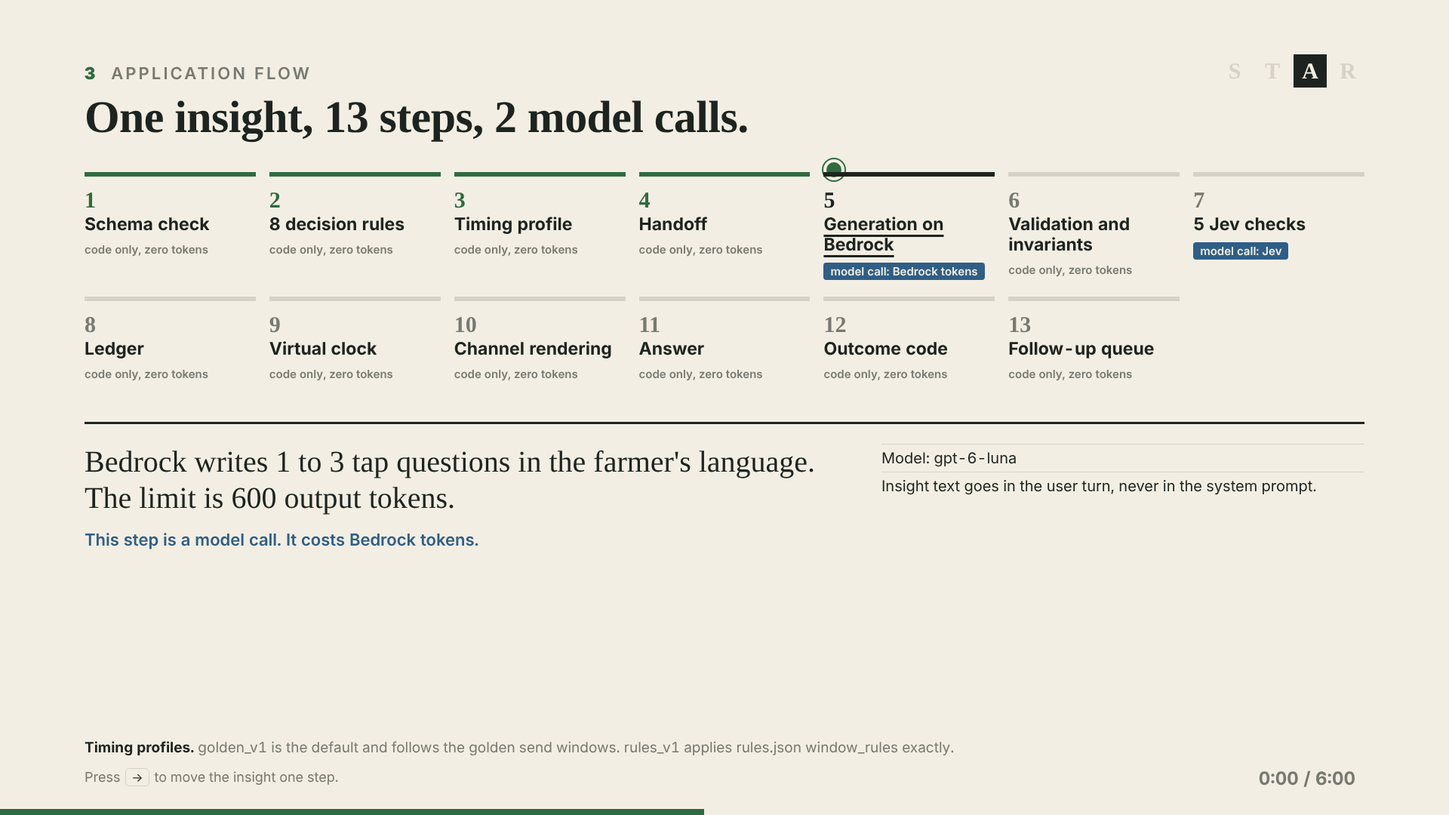
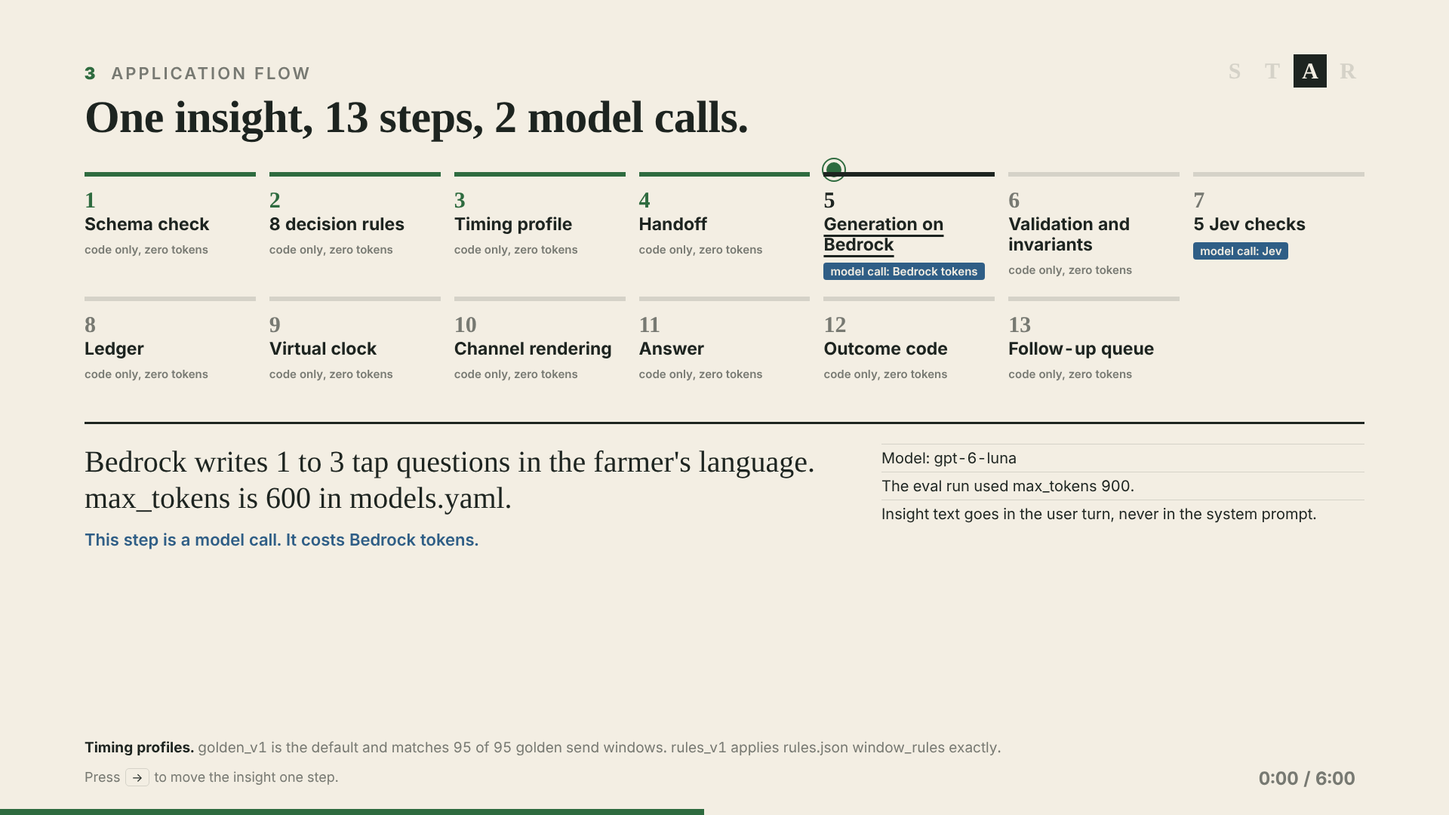
Refresh pitch deck with evidence, review, demo and infra facts (#26)
* Refresh pitch deck with evidence report, review, demo script and infra

Fill the slide 5 tiles from evidence/REPORT.md, the demo checklist from
DEMO.md, the simulator URL and CloudFront from infra/INFRA.md, and the
review count from REVIEW.md. Drop AWS Budgets, which was not deployed.

Claude-Session: https://claude.ai/code/session_01Cnzru5pCMBT4YPL5fzyRAG

* Deck: replace the prompt caching claim with the eval model line

Prompt caching was not measured, so slide 5 no longer claims it.

Claude-Session: https://claude.ai/code/session_01Cnzru5pCMBT4YPL5fzyRAG

---------

Changed region(s): [[0.5938, 0.5806, 0.9062, 0.6417], [0.0625, 0.5806, 0.3438, 0.6417], [0.2812, 0.8861, 0.6875, 0.9472]]

diff --git a/deck/index.html b/deck/index.html
@@ -225,7 +225,7 @@ table.why th{border-top:1.5px solid var(--faint)}
 </section>
 
 <!-- ============ SLIDE 2 ============ -->
-<section class="slide" data-n="2" data-steps="13" data-star="A">
+<section class="slide" data-n="2" data-steps="12" data-star="A">
   <div class="kicker"><b>2</b> &nbsp;Solution architecture</div>
   <h1 style="font-size:60px">One request path. One data path.</h1>
   <div class="s2-grid">
@@ -233,7 +233,7 @@ table.why th{border-top:1.5px solid var(--faint)}
       <ul class="legend">
         <li><svg width="70" height="14"><line x1="0" y1="7" x2="70" y2="7" stroke="#2E6B3F" stroke-width="4"/></svg>Request path</li>
         <li><svg width="70" height="14"><line x1="0" y1="7" x2="70" y2="7" stroke="#2F5E86" stroke-width="4" stroke-dasharray="10 6"/></svg>Data path</li>
-        <li><svg width="70" height="24"><rect x="2" y="2" width="66" height="20" fill="none" stroke="#C7860A" stroke-width="2.5" stroke-dasharray="8 6"/></svg>Not confirmed yet</li>
+        <li><svg width="70" height="24"><rect x="2" y="2" width="66" height="20" fill="none" stroke="#1D2420" stroke-width="2" stroke-dasharray="4 5"/></svg>Outside the AWS application</li>
       </ul>
       <div class="svcpanel" id="svcpanel"></div>
     </div>
@@ -250,7 +250,7 @@ table.why th{border-top:1.5px solid var(--faint)}
       <!-- compute group -->
       <rect x="470" y="196" width="280" height="264" fill="none" stroke="#1D2420" stroke-width="1.5" stroke-dasharray="2 5"/>
       <text x="482" y="218" style="font-size:15px;font-weight:700;letter-spacing:.1em;fill:#6e6f68">APPLICATION CODE: mel</text>
-      <text x="206" y="636" style="font-size:15px;font-weight:700;letter-spacing:.1em;fill:#6e6f68">OBSERVE AND CONTROL COST</text>
+      <text x="206" y="636" style="font-size:15px;font-weight:700;letter-spacing:.1em;fill:#6e6f68">OBSERVE</text>
 
       <!-- request path arrows -->
       <path data-s="0 1" class="req" d="M85 240V102H218" marker-end="url(#mreq)"/>
@@ -258,8 +258,8 @@ table.why th{border-top:1.5px solid var(--faint)}
       <path data-s="2 3" class="req" d="M420 278H488" marker-end="url(#mreq)"/>
       <path data-s="3 4 5" class="req" d="M590 196V142" marker-end="url(#mreq)"/>
       <path data-s="3 4 7" class="req" d="M750 420H766V560H1038" marker-end="url(#mreq)"/>
-      <path data-s="0 11" class="req pend" d="M85 316V558H218" marker-end="url(#mpen)"/>
-      <path data-s="11 10" class="req pend" d="M420 558H478" marker-end="url(#mpen)"/>
+      <path data-s="0 11" class="req" d="M85 316V558H218" marker-end="url(#mreq)"/>
+      <path data-s="11 10" class="req" d="M420 558H478" marker-end="url(#mreq)"/>
       <!-- data path arrows -->
       <path data-s="3 4 8" class="dat" d="M750 274H788" marker-end="url(#mdat)"/>
       <path data-s="3 4 9" class="dat" d="M750 394H788" marker-end="url(#mdat)"/>
@@ -279,9 +279,8 @@ table.why th{border-top:1.5px solid var(--faint)}
       <g class="svc" data-i="8"><rect class="box" x="790" y="236" width="210" height="76" rx="6"/><text class="nm" x="804" y="268">DynamoDB</text><text class="sb" x="804" y="294">table mel-ledger</text></g>
       <g class="svc" data-i="9"><rect class="box" x="790" y="356" width="210" height="76" rx="6"/><text class="nm" x="804" y="388">SQS</text><text class="sb" x="804" y="414">follow-up queue</text><rect class="box" x="815" y="452" width="150" height="48" rx="6"/><text class="sb" x="830" y="482" style="fill:#1D2420;font-weight:600">DLQ</text></g>
       <g class="svc" data-i="10"><rect class="box" x="480" y="520" width="220" height="76" rx="6"/><text class="nm" x="494" y="552">S3</text><text class="sb" x="494" y="578">simulator, artifacts</text></g>
-      <g class="svc pending" data-i="11"><rect class="box" x="220" y="520" width="200" height="76" rx="6"/><text class="nm" x="234" y="552">CloudFront</text><text class="sb" x="234" y="578" style="fill:#8a5d06;font-weight:700">PENDING</text></g>
-      <g class="svc" data-i="12"><rect class="box" x="480" y="650" width="220" height="76" rx="6"/><text class="nm" x="494" y="682">CloudWatch</text><text class="sb" x="494" y="708">dashboard, alarms</text></g>
-      <g class="svc" data-i="13"><rect class="box" x="790" y="650" width="210" height="76" rx="6"/><text class="nm" x="804" y="682">AWS Budgets</text><text class="sb" x="804" y="708">monthly budget</text></g>
+      <g class="svc" data-i="11"><rect class="box" x="220" y="520" width="200" height="76" rx="6"/><text class="nm" x="234" y="552">CloudFront</text><text class="sb" x="234" y="578">simulator, HTTPS</text></g>
+      <g class="svc" data-i="12"><rect class="box" x="480" y="650" width="220" height="76" rx="6"/><text class="nm" x="494" y="682">CloudWatch</text><text class="sb" x="494" y="708">dashboard, 2 alarms</text></g>
     </svg>
   </div>
   <div class="hint">Press <kbd>→</kbd> to show each service in turn.</div>
@@ -293,7 +292,7 @@ table.why th{border-top:1.5px solid var(--faint)}
   <h1 style="font-size:60px">One insight, 13 steps, 2 model calls.</h1>
   <div class="track" id="track"><div id="token"></div></div>
   <div class="detail" id="detail"></div>
-  <div class="foot"><b>Timing profiles.</b> golden_v1 is the default and follows the golden send windows. rules_v1 applies rules.json window_rules exactly.</div>
+  <div class="foot"><b>Timing profiles.</b> golden_v1 is the default and matches 95 of 95 golden send windows. rules_v1 applies rules.json window_rules exactly.</div>
   <div class="hint">Press <kbd>→</kbd> to move the insight one step.</div>
 </section>
 
@@ -320,27 +319,27 @@ table.why th{border-top:1.5px solid var(--faint)}
     <div class="tile">
       <div class="v">150<small> / 150</small></div>
       <div class="l">Golden-set decisions that match, with 0 model calls</div>
-      <div class="s">Wave 0 rule check in CONTRACTS.md. <span class="chip">pending <i>evidence/REPORT.md</i></span></div>
+      <div class="s">Rule id, reason code and survey flag all match. Source: evidence/REPORT.md.</div>
     </div>
     <div class="tile">
-      <div class="v"><span class="chip" style="font-size:30px">pending</span><small> / 183</small></div>
+      <div class="v">183<small> / 183</small></div>
       <div class="l">Outcome fixtures that pass</div>
-      <div class="s">The total of 183 comes from pack/README.txt. <span class="chip">pending <i>evidence/REPORT.md</i></span></div>
+      <div class="s">Each pack fixture passes through the outcome state machine. Source: evidence/REPORT.md.</div>
     </div>
     <div class="tile">
-      <div class="v">$0.000210</div>
+      <div class="v">$0.000818</div>
       <div class="l">Cost for each accepted survey, <span style="white-space:nowrap">gpt-6-luna</span></div>
-      <div class="s">Generation only, in the model eval. The list price is not verified. <span class="chip">pending <i>evidence/REPORT.md</i></span></div>
+      <div class="s">Failed calls are counted. Without them, the cost is $0.000568. 5 of 5 surveys passed. Prices are not verified.</div>
     </div>
     <div class="tile">
-      <div class="v"><span class="chip" style="font-size:30px">pending</span></div>
-      <div class="l">Latency p50 and p95, end to end</div>
-      <div class="s">The model call alone has a p50 of 1146 ms in the eval. <span class="chip">pending <i>evidence/REPORT.md</i></span></div>
+      <div class="v">2,577<small> / 4,105 ms</small></div>
+      <div class="l">Latency p50 and p95 for each model call</div>
+      <div class="s">Measured on Bedrock in us-west-2 over 7 model calls. Source: evidence/REPORT.md.</div>
     </div>
   </div>
   <table class="why">
-    <tr><th>Cost</th><td>Decisions, timing and outcomes are deterministic code. The eval chose <span style="white-space:nowrap">gpt-6-luna</span>: 15 of 15 passed at the lowest priced cost. Prompt caching <span class="chip">pending <i>not in listed files</i></span></td></tr>
-    <tr><th>Security</th><td>Farmer identity comes from the JWT only. Each component has its own least-privilege IAM role. The Jev key stays in Secrets Manager. A Jev failure holds the survey for review. Adversarial review <span class="chip">pending <i>REVIEW.md pass count</i></span></td></tr>
+    <tr><th>Cost</th><td>Decisions, timing and outcomes are deterministic code. Cheapest Bedrock model chosen by eval: <span style="white-space:nowrap">gpt-6-luna</span>, 5 of 5 accepted.</td></tr>
+    <tr><th>Security</th><td>Farmer identity comes from the JWT only. IAM policies list explicit actions, with no wildcard actions. The Jev key stays in Secrets Manager. A Jev failure holds the survey for review. The adversarial review checked 15 items, and 12 are closed with PR #23.</td></tr>
     <tr><th>Simplicity</th><td>One Python package, mel. One DynamoDB table. One static simulator page. One deploy script.</td></tr>
   </table>
   <p class="close">Every piece of advice gets a <b>measured outcome</b>. Farmers with bad outcomes <b>get help</b>.</p>
@@ -373,9 +372,9 @@ function chip(src){return '<span class="chip">pending <i>'+esc(src)+'</i></span>
 
 /* ---------- slide 2 data ---------- */
 var SVC=[
- [0,"Overview","The diagram shows the services in infra/README.md. infra/INFRA.md is not on main yet."],
+ [0,"Overview","The diagram shows the deployed services in infra/INFRA.md and the external Jev service."],
  [1,"Cognito","Cognito signs in the farmer and issues a JWT that carries farmer_id and org_id."],
- [2,"API Gateway","API Gateway checks the JWT, validates each request and throttles at rate 1, burst 10."],
+ [2,"API Gateway","The HTTP API checks the JWT and throttles at rate 1, burst 10. The Lambda validates the payload."],
  [3,"Lambda","The Lambda function mel-api runs the agent code for each API request."],
  [4,"AgentCore Runtime","AgentCore Runtime runs the agent as a container from the ECR repository mel-agent."],
  [5,"Bedrock","Bedrock runs gpt-6-luna through a global cross-region inference profile, called from us-west-2."],
@@ -384,9 +383,8 @@ var SVC=[
  [8,"DynamoDB","DynamoDB holds the ledger in one table, scoped by org_id and farmer_id."],
  [9,"SQS with DLQ","SQS holds the follow-up queue. The dead-letter queue keeps messages that fail."],
  [10,"S3","S3 holds the simulator page and the artifacts, with public access blocked."],
- [11,"CloudFront","CloudFront for the simulator is not confirmed. "+chip("infra/INFRA.md")],
- [12,"CloudWatch","CloudWatch shows the MelAgent metrics on a dashboard and raises alarms."],
- [13,"AWS Budgets","AWS Budgets sets a monthly cost budget."]
+ [11,"CloudFront","CloudFront serves the simulator page over HTTPS from the private S3 bucket."],
+ [12,"CloudWatch","CloudWatch shows the MelAgent metrics on the mel-agent dashboard. 2 alarms watch the DLQ and the model call rate."]
 ];
 var arch=document.getElementById("arch");
 function renderS2(step){
@@ -397,7 +395,7 @@ function renderS2(step){
   arch.classList.toggle("focus",step>0);
   var d=SVC[step];
   document.getElementById("svcpanel").innerHTML=
-    '<div class="n">'+(step?("Service "+step+" of 13"):"13 services")+'</div><h2>'+d[1]+'</h2><p>'+d[2]+'</p>';
+    '<div class="n">'+(step?("Service "+step+" of 12"):"12 services")+'</div><h2>'+d[1]+'</h2><p>'+d[2]+'</p>';
 }
 
 /* ---------- slide 3 data ---------- */
@@ -407,7 +405,7 @@ var STEPS=[
    ["R1|junk_insight","R2|critical_needs_human_call","R3|nothing_to_verify","R4|waiting_for_details","R5|no_check_needed","R6|window_after_season","R7|crop_already_harvested","R8|survey"]],
  ["Timing profile",0,"The timing profile sets the send window from the verification timing.",["|golden_v1 is the default profile.","|rules_v1 applies rules.json window_rules."]],
  ["Handoff",0,"The handoff builds the schedule record for the scheduler.",["|Channel order and wait hours","|Frequency cap","|Priority","|Expiry time"]],
- ["Generation on Bedrock",1,"Bedrock writes 1 to 3 tap questions in the farmer's language. The limit is 600 output tokens.",["|Model: gpt-6-luna","|Insight text goes in the user turn, never in the system prompt."]],
+ ["Generation on Bedrock",1,"Bedrock writes 1 to 3 tap questions in the farmer's language. max_tokens is 600 in models.yaml.",["|Model: gpt-6-luna","|The eval run used max_tokens 900.","|Insight text goes in the user turn, never in the system prompt."]],
  ["Validation and invariants",0,"Code validates the survey against the pack schema and the invariants. Our validator sets schema_valid.",["|1 to 3 items","|Unique item_id","|2 to 10 options","|Labels of 20 code points or fewer","|Scales of 10 steps or fewer"]],
  ["5 Jev checks",2,"Jev answers 5 typed questions about the final survey. A Jev failure holds the survey for review.",["|matches_advice","|gives_new_advice","|asks_personal_info","|inappropriate_content","|language_matches_tag"]],
  ["Ledger",0,"The ledger stores the survey. Every read and write is scoped by org_id and farmer_id.",null],
@@ -455,11 +453,11 @@ function renderS3(step){
 }
 
 /* ---------- slide 4 data ---------- */
-var CHECKS=[1,2,3,4,5,6];
+var CHECKS=[[1,"The outcome"],[2,"Potato insight to survey"],[3,"Clock, sheet and follow-up"],[4,"Zero tillage insight: no survey"],[5,"Failures: push, partial, duplicate, opt-out"],[6,"Evidence"]];
 var checksEl=document.getElementById("checks"), ticked={};
-CHECKS.forEach(function(n){
-  var li=document.createElement("li");li.setAttribute("data-k",n);
-  li.innerHTML='<span class="bx"></span><span class="lbl">Step '+n+' '+chip("DEMO.md")+'</span>';
+CHECKS.forEach(function(c){
+  var n=c[0],li=document.createElement("li");li.setAttribute("data-k",n);
+  li.innerHTML='<span class="bx"></span><span class="lbl"><b>'+n+'</b>&nbsp; '+esc(c[1])+'</span>';
   li.addEventListener("click",function(e){e.stopPropagation();toggleCheck(n);});
   checksEl.appendChild(li);
 });
@@ -470,17 +468,18 @@ var O="pack/json/outcomes/app/survey-single-select/";
 function rec(rows){return '<div class="rec">'+rows.map(function(r){
   return '<div'+(r[2]?' class="'+r[2]+'"':'')+'><span>'+esc(r[0])+'</span><span>'+esc(r[1])+'</span></div>';}).join("")+'</div>';}
 var FRAMES=[
- {t:"Potato survey in Hindi",src:P+"survey.hi-IN.json and survey.en-IN.json",one:true,html:
+ {t:"Potato survey in English",src:P+"survey.en-IN.json and survey.hi-IN.json",one:true,html:
   '<div class="sq">'+
-  '<div class="item"><div class="hi">क्या आपने पिछले 3 दिनों में आलू के पत्ते देखे?</div><div class="en">Did you check the potato leaves in the last 3 days?</div><div class="opts"><span>हाँ</span><span>नहीं</span></div></div>'+
-  '<div class="item"><div class="hi">भूरे धब्बों का अब क्या हाल है?</div><div class="en">What is happening to the brown spots?</div><div class="opts"><span>नए धब्बे नहीं</span><span>पहले जैसे ही</span><span>फैल रहे हैं</span><span>सफ़ेद फफूंद दिखी</span></div></div>'+
-  '<div class="item"><div class="hi">सलाह कितनी काम की रही? 1 मतलब बिल्कुल नहीं, 5 मतलब बहुत काम की।</div><div class="en">How useful was the advice? 1 means not useful, 5 means very useful.</div><div class="opts"><span>1</span><span>2</span><span>3</span><span>4</span><span>5</span></div></div>'+
+  '<div class="item"><div class="hi">Did you check the potato leaves in the last 3 days?</div><div class="en">क्या आपने पिछले 3 दिनों में आलू के पत्ते देखे?</div><div class="opts"><span>Yes</span><span>No</span></div></div>'+
+  '<div class="item"><div class="hi">What is happening to the brown spots?</div><div class="en">भूरे धब्बों का अब क्या हाल है?</div><div class="opts"><span>No new spots</span><span>Same as before</span><span>Spreading</span><span>White growth seen</span></div></div>'+
+  '<div class="item"><div class="hi">How useful was the advice? 1 means not useful, 5 means very useful.</div><div class="en">सलाह कितनी काम की रही? 1 मतलब बिल्कुल नहीं, 5 मतलब बहुत काम की।</div><div class="opts"><span>1</span><span>2</span><span>3</span><span>4</span><span>5</span></div></div>'+
+  '<p class="src" style="margin-top:10px">The agent builds en-IN only. Hindi is not built yet. The grey lines show the pack hi-IN text.</p>'+
   '</div>'},
- {t:"App bottom sheet, step 2 of 3",src:P+"render/hi-IN/app.json",html:
+ {t:"App bottom sheet, step 2 of 3",src:P+"render/en-IN/app.json",html:
   '<div class="phone"><div class="chat">FarmerChat</div><div class="sheet"><div class="grab"></div>'+
-  '<div class="t">आपको मिली सलाह पर एक छोटा सवाल · 3 में से 2</div><div class="q">भूरे धब्बों का अब क्या हाल है?</div>'+
-  '<span class="opt">नए धब्बे नहीं</span><span class="opt">पहले जैसे ही</span><span class="opt tap">फैल रहे हैं</span><span class="opt">सफ़ेद फफूंद दिखी</span>'+
-  '<div class="row"><span>छोड़ें</span><span>बंद करें</span></div></div></div>'+
+  '<div class="t">A quick question about the advice you got · 2 of 3</div><div class="q">What is happening to the brown spots?</div>'+
+  '<span class="opt">No new spots</span><span class="opt">Same as before</span><span class="opt tap">Spreading</span><span class="opt">White growth seen</span>'+
+  '<div class="row"><span>Skip</span><span>Close</span></div></div></div>'+
   rec([["presentation","bottom_sheet"],["opens_when","push_tapped, next_app_open"],["waits_for","answer finished, no typing for 5 seconds, no call"],["one_question_per_step","true"],["can_skip, can_close","true, true"]])},
  {t:"Answer: spreading",src:P+"responses/whatsapp.json",one:true,html:
   rec([["survey_id","S-21310"],["channel","whatsapp"],["answers","q1 yes · q2 spreading · q3 2"],["status","negative_outcome","bad"],["counts_toward_cap","true"],["needs_follow_up","true","hot"],["follow_up_reasons","crop_or_animal_damaged","hot"]])},
@@ -506,12 +505,12 @@ function renderS4(step){
   frame.classList.toggle("live",state.live);
   if(state.live){
     frame.innerHTML='<div class="fhead"><span class="mode liveon">LIVE</span><span class="ttl">Simulator</span><span class="cnt">Press L for the replay</span></div>'+
-      '<div class="livebox"><div>Simulator URL</div>'+chip("infra/INFRA.md")+'<div style="font-size:20px">Open the simulator in a browser tab next to this deck.</div></div>';
+      '<div class="livebox"><div>Simulator URL</div><div style="font-size:34px;font-weight:700;color:var(--ink)">https://d3eb8n1ufruyva.cloudfront.net</div><div style="font-size:20px">Open the simulator in a browser tab next to this deck.</div><div style="font-size:20px">For the simulator replay, add ?replay=1 to the URL.</div></div>';
     return;
   }
   var f=FRAMES[step];
   frame.innerHTML='<div class="fhead"><span class="mode replay">REPLAY</span><span class="ttl">'+esc(f.t)+'</span><span class="cnt">Frame '+(step+1)+' of '+FRAMES.length+'</span></div>'+
-    '<div class="fbody'+(f.one?" one":"")+'">'+f.html+'</div><div class="fsrc">Recorded pack record: '+esc(f.src)+'</div>';
+    '<div class="fbody'+(f.one?" one":"")+'">'+f.html+'</div><div class="fsrc">Recorded pack record, the same data as the simulator replay: '+esc(f.src)+'</div>';
 }
 
 /* ---------- notes ---------- */
@@ -531,14 +530,15 @@ var NOTES=[
   "Green arrows show the request path. Blue arrows show the data path.",
   "Cognito signs in the farmer and issues a JWT.",
   "API Gateway checks the JWT and sends the request to the Lambda function.",
+  "The Lambda function validates the payload, because an HTTP API has no request validator.",
   "AgentCore Runtime runs the same agent code as a container.",
   "Bedrock runs gpt-6-luna through a cross-region inference profile.",
   "The Jev key stays in Secrets Manager. Jev is outside AWS.",
   "DynamoDB holds the ledger in one table.",
   "SQS holds the follow-up queue. A dead-letter queue keeps failed messages.",
   "S3 holds the simulator page and the artifacts.",
-  "CloudFront is pending. Do not talk about it until infra/INFRA.md confirms it.",
-  "CloudWatch shows the dashboard and alarms. AWS Budgets sets a monthly budget."]],
+  "CloudFront serves the simulator page from the private S3 bucket.",
+  "CloudWatch shows the dashboard. 2 alarms watch the DLQ and the model call rate."]],
  ["Slide 3. Action: application flow. Target 2:00 to 3:10. Press the right arrow for each step.",[
   "Follow one insight through the agent.",
   "Code checks the insight against the pack schema.",
@@ -554,8 +554,9 @@ var NOTES=[
  ["Slide 4. Action shown live. Target 3:10 to 5:10.",[
   "If the live system fails, press L to show the replay.",
   "Follow the 6 steps in DEMO.md. Tick each step on the slide when you finish it.",
+  "The live simulator is at d3eb8n1ufruyva.cloudfront.net.",
   "The replay uses recorded pack records.",
-  "First, the potato survey in Hindi. The farmer gets 3 questions.",
+  "First, the potato survey in English. Hindi is not built yet. The farmer gets 3 questions.",
   "Next, the bottom sheet in the app. It shows one question for each step.",
   "The farmer taps Spreading. The status becomes negative_outcome.",
   "The agent creates a follow-up item with the reason crop_or_animal_damaged.",
@@ -567,9 +568,11 @@ var NOTES=[
  ["Slide 5. Result. Target 5:10 to 6:00.",[
   "Do not read a pending chip as a number. Say that the number is pending.",
   "The rules match 150 of 150 golden decisions with 0 model calls.",
-  "Generation costs $0.000210 for each accepted survey in the eval. The list price is not verified.",
+  "183 of 183 outcome fixtures pass.",
+  "Each accepted survey costs $0.000818, with failed calls counted. The prices are not verified.",
+  "Each model call takes 2,577 ms at p50 and 4,105 ms at p95.",
   "Cost stays low because decisions are code. The eval chose the model.",
-  "Security comes from JWT identity, least-privilege IAM, secrets off clients and the Jev hold.",
+  "Security comes from JWT identity, explicit IAM actions, secrets off clients and the Jev hold.",
   "Simplicity comes from one package, one table, one static page and one deploy script.",
   "Every piece of advice gets a measured outcome. Farmers with bad outcomes get help."]]
 ];

diff --git a/deck/NOTES.md b/deck/NOTES.md
@@ -36,14 +36,15 @@ Press the right arrow for each service.
 - Green arrows show the request path. Blue arrows show the data path.
 - Cognito signs in the farmer and issues a JWT.
 - API Gateway checks the JWT and sends the request to the Lambda function.
+- The Lambda function validates the payload, because an HTTP API has no request validator.
 - AgentCore Runtime runs the same agent code as a container.
 - Bedrock runs gpt-6-luna through a cross-region inference profile.
 - The Jev key stays in Secrets Manager. Jev is outside AWS.
 - DynamoDB holds the ledger in one table.
 - SQS holds the follow-up queue. A dead-letter queue keeps failed messages.
 - S3 holds the simulator page and the artifacts.
-- CloudFront is pending. Do not talk about it until infra/INFRA.md confirms it.
-- CloudWatch shows the dashboard and alarms. AWS Budgets sets a monthly budget.
+- CloudFront serves the simulator page from the private S3 bucket.
+- CloudWatch shows the dashboard. 2 alarms watch the DLQ and the model call rate.
 
 ### Slide 3. Action: application flow. 2:00 to 3:10
 
@@ -65,8 +66,9 @@ Press the right arrow for each step.
 
 - If the live system fails, press L to show the replay.
 - Follow the 6 steps in DEMO.md. Tick each step on the slide when you finish it.
+- The live simulator is at d3eb8n1ufruyva.cloudfront.net.
 - The replay uses recorded pack records.
-- First, the potato survey in Hindi. The farmer gets 3 questions.
+- First, the potato survey in English. Hindi is not built yet. The farmer gets 3 questions.
 - Next, the bottom sheet in the app. It shows one question for each step.
 - The farmer taps Spreading. The status becomes negative_outcome.
 - The agent creates a follow-up item with the reason crop_or_animal_damaged.
@@ -80,13 +82,18 @@ Press the right arrow for each step.
 
 - Do not read a pending chip as a number. Say that the number is pending.
 - The rules match 150 of 150 golden decisions with 0 model calls.
-- Generation costs $0.000210 for each accepted survey in the eval. The list price is not verified.
+- 183 of 183 outcome fixtures pass.
+- Each accepted survey costs $0.000818, with failed calls counted. The prices are not verified.
+- Each model call takes 2,577 ms at p50 and 4,105 ms at p95.
 - Cost stays low because decisions are code. The eval chose the model.
-- Security comes from JWT identity, least-privilege IAM, secrets off clients and the Jev hold.
+- Security comes from JWT identity, explicit IAM actions, secrets off clients and the Jev hold.
 - Simplicity comes from one package, one table, one static page and one deploy script.
 - Every piece of advice gets a measured outcome. Farmers with bad outcomes get help.
 
+
 ## Every number and its source
+
+Sources read on 2026-11-05: main at 5e0b278, evidence/REPORT.md from PR #25, REVIEW.md from PR #21, DEMO.md from PR #20, KNOWN-ISSUES.md from PR #24, infra/INFRA.md on main.
 
 | Slide | Number | Meaning | Source file |
 |---|---|---|---|
@@ -95,57 +102,52 @@ Press the right arrow for each step.
 | 1 | 150 | golden cases | pack/README.txt |
 | 1 | 183 | outcome records | pack/README.txt |
 | 1, 3 | 1 to 3 | tap questions in a survey | pack/README.txt; models/results/model_select.md |
-| 2 | 13 | services drawn | infra/README.md (6 stacks), CLAUDE.md (Bedrock, Jev) |
-| 2 | rate 1, burst 10 | API Gateway stage throttle | CLAUDE.md |
-| 2, 3, 5 | 5 | Jev checks | mel/settings.py (JEV_THRESHOLD_* x5); CONTRACTS.md (`JEV_THRESHOLD_<CHECK>` x5) |
+| 2 | 12 | services drawn (11 AWS, plus Jev) | infra/INFRA.md resource inventory; CLAUDE.md (Jev) |
+| 2 | rate 1, burst 10 | API Gateway stage throttle | CLAUDE.md; evidence/REPORT.md section 7 |
+| 2 | 2 | CloudWatch alarms | evidence/REPORT.md section 6 (mel-followup-dlq-nonempty, mel-model-calls-over-60) |
+| 2, 3, 5 | 5 | Jev checks | mel/settings.py (JEV_THRESHOLD_* x5); CONTRACTS.md |
 | 3 | 13 | flow steps | the task brief for this deck |
 | 3 | 8, R1 to R8 | decision rules and reason codes | CONTRACTS.md, Rules table |
 | 3 | 2 | model calls (generation, Jev) | CLAUDE.md, Fixed decisions |
 | 3 | 11 | code-only steps (13 minus 2) | derived from the two rows above |
-| 3 | 600 | max output tokens | CLAUDE.md; models/models.yaml `max_tokens` |
+| 3 | 600 | max_tokens in config | models/models.yaml |
+| 3 | 900 | max_tokens used in the eval run | evidence/REPORT.md section 4 |
+| 3 | 95 of 95 | golden send windows that golden_v1 matches | evidence/REPORT.md section 2 |
 | 3 | 1 to 3, 2 to 10, 20, 10 | survey invariants | models/results/model_select.md |
 | 3 | I-005330, 3 days | example insight | pack/json/scenarios/3-potato-blight-wait/insight.json |
-| 4 | 6 | demo steps | the task brief (DEMO.md is missing) |
+| 4 | 6 | demo steps and their names | DEMO.md (PR #20) |
+| 4 | d3eb8n1ufruyva.cloudfront.net | simulator URL | infra/INFRA.md, Endpoints |
 | 4 | 9 | replay frames | this deck |
 | 4 | S-21310, F-000245, q3 = 2 | potato survey and answer | pack/json/scenarios/3-potato-blight-wait/responses/whatsapp.json |
-| 4 | 3 in 3 steps, 5 seconds | bottom sheet steps and typing wait | pack/json/scenarios/3-potato-blight-wait/render/hi-IN/app.json |
+| 4 | 2 of 3, 5 seconds | bottom sheet step and typing wait | pack/json/scenarios/3-potato-blight-wait/render/en-IN/app.json |
 | 4 | I-004101, R3 | no-survey insight and rule | pack/json/scenarios/6-zero-tillage-info-no-survey/; proposals/CONFLICTS.md section 2 |
 | 4 | S-20931, HTTP 200 | failure records | pack/json/outcomes/app/survey-single-select/*.json |
-| 5 | 150 / 150 | golden decisions that match (wave 0 rule check) | CONTRACTS.md, Rules heading |
-| 5 | 183 | outcome fixture total | pack/README.txt |
-| 5 | $0.000210 | cost per accepted survey, generation only, eval | models/results/model_select.md; models/models.yaml |
-| 5 | 15 of 15 | eval pass count for gpt-6-luna | models/results/model_select.md |
-| 5 | 1146 ms | model call p50 in the eval | models/results/model_select.md |
+| 5 | 150 / 150 | golden decisions that match | evidence/REPORT.md section 1 |
+| 5 | 183 / 183 | outcome fixtures that pass | evidence/REPORT.md section 3 |
+| 5 | $0.000818 | cost per accepted survey, failed calls counted | evidence/REPORT.md section 4 |
+| 5 | $0.000568 | cost per accepted survey, successful calls only | evidence/REPORT.md section 4 |
+| 5 | 5 of 5 | surveys accepted (schema valid and Jev ok) | evidence/REPORT.md section 4 |
+| 5 | 2,577 ms, 4,105 ms | latency p50 and p95 per model call | evidence/REPORT.md section 4 |
+| 5 | 7 | model calls in the eval run | evidence/REPORT.md section 4 |
+| 5 | 15, 12 | review items, and items closed with PR #23 | REVIEW.md (PR #21) |
 | footer | 6:00, 5:00 | talk length and amber point | the task brief |
 
 ## Pending chips
 
-Each chip is amber on the slide. A later run fills it from the named file.
+None. Dwayne removed the prompt caching claim on 2026-11-05, because it was not measured.
 
-1. Slide 2, CloudFront node and its 2 arrows: confirm in infra/INFRA.md. infra/README.md does not list CloudFront.
-2. Slide 4, demo steps 1 to 6: text from DEMO.md.
-3. Slide 4, live mode: the simulator URL from infra/INFRA.md.
-4. Slide 5, tile 1: golden-set matches out of 150 from evidence/REPORT.md. The slide shows 150 / 150 from the wave 0 check in CONTRACTS.md until then.
-5. Slide 5, tile 2: outcome fixtures that pass out of 183, from evidence/REPORT.md.
-6. Slide 5, tile 3: cost per accepted survey from evidence/REPORT.md. The slide shows $0.000210 from the model eval until then.
-7. Slide 5, tile 4: end-to-end latency p50 and p95 from evidence/REPORT.md.
-8. Slide 5, cost row: prompt caching. No listed file says the build uses it.
-9. Slide 5, security row: adversarial review pass count from REVIEW.md.
+## Disagreements with the pack, the brief and the sources
 
-## Files missing on main (read on 2026-11-05, main at 8ef904e)
-
-- infra/INFRA.md. The architecture uses infra/README.md instead.
-- evidence/REPORT.md.
-- DEMO.md.
-- REVIEW.md.
-- sim/index.html. The replay uses the pack worked examples instead.
-
-## Disagreements with the pack and the brief
-
-- The brief asks for a replay built from sim/index.html or evidence/. Neither exists on main. The replay uses recorded pack records from pack/json/scenarios and pack/json/outcomes.
-- The brief asks for the potato scenario for every replay frame. The pack has push failure, partial, duplicate and opt-out records only for the mustard survey S-20931. Those 4 frames use S-20931 and say so.
-- The pack potato records use the "spreading" answer on WhatsApp, not in the app. Frame 3 shows the WhatsApp record. Frame 2 shows the app bottom sheet with the same option tapped.
-- The brief asks for "the cheapest Bedrock model chosen by eval". models/results/model_select.md has no price for claude-haiku-5-5, so "cheapest" is not proven. The slide says "the lowest priced cost".
-- The gpt-6-luna price is marked unverified in models/models.yaml. The slide says so.
+- The brief asks to draw AWS Budgets. infra/INFRA.md says BUDGET_EMAIL was unset and the budget was skipped. The deck does not draw it.
+- The brief asks for "least-privilege IAM, one role per component". KNOWN-ISSUES.md says Lambda and AgentCore share one role (review item 10). The slide says "IAM policies list explicit actions" instead.
+- The brief asks for end-to-end p50 and p95 latency. evidence/REPORT.md gives latency per model call only. The tile says "for each model call".
+- The brief asks for cost per accepted survey. evidence/REPORT.md gives 2 values. The tile shows $0.000818 (failed calls counted) and names $0.000568. Prices are unverified in both.
+- The cost row uses Dwayne's text: "cheapest Bedrock model chosen by eval: gpt-6-luna, 5 of 5 accepted". models/results/model_select.md has no price for claude-haiku-5-5, so "cheapest" is not proven against that model. Prices are unverified.
+- CLAUDE.md and models/models.yaml set max_tokens 600. The eval run used 900 (evidence/REPORT.md section 4). Slide 3 shows both.
+- The adversarial review count is from REVIEW.md: 12 of 15 items are closed with PR #23. PR #23 is not merged at the time of writing. Update the slide when the integration PR for items 4, 5 and 10 merges.
+- DEMO.md times its 6 steps as a full 6:00 talk. This deck gives the demo 2:00 (3:10 to 5:10). The presenter must choose which steps to run live.
+- DEMO.md and KNOWN-ISSUES.md say Hindi is not built. The replay shows the en-IN survey and the en-IN app sheet. The pack hi-IN text is shown in grey on frame 1 only.
+- The replay uses pack records, the same data that the simulator replay (sim/index.html, ?replay=1) builds from. The pack has push failure, partial, duplicate and opt-out records only for the mustard survey S-20931. Those 4 frames say so.
+- The pack potato records use the "spreading" answer on WhatsApp. DEMO.md step 3 uses the Web tab. Frame 3 shows the WhatsApp record.
 - The no-survey record for zero tillage uses reason_code generic_information. The golden code for R3 is nothing_to_verify (proposals/CONFLICTS.md section 1). The slide shows both.
-- CONTRACTS.md says the rules match 150/150 with R7 `>=`. evidence/REPORT.md must confirm this for the deployed build.
+- REVIEW.md item 4 says a duplicate is found only on the same response_key. The duplicate frame shows the pack record, not the current code behaviour.
